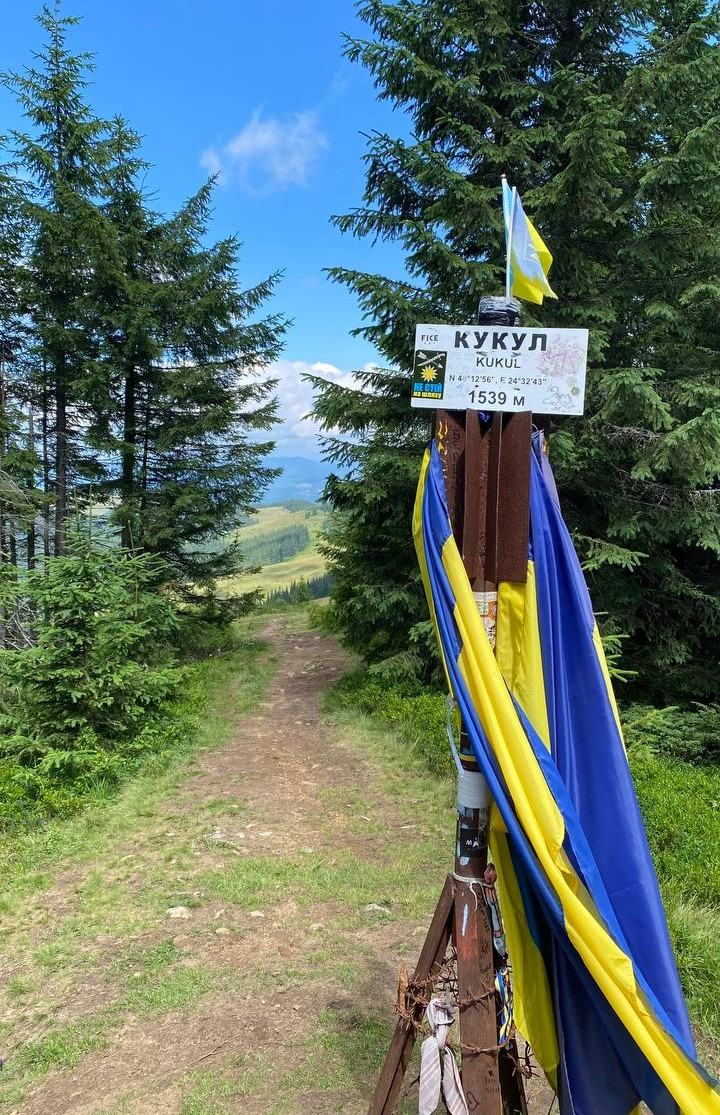
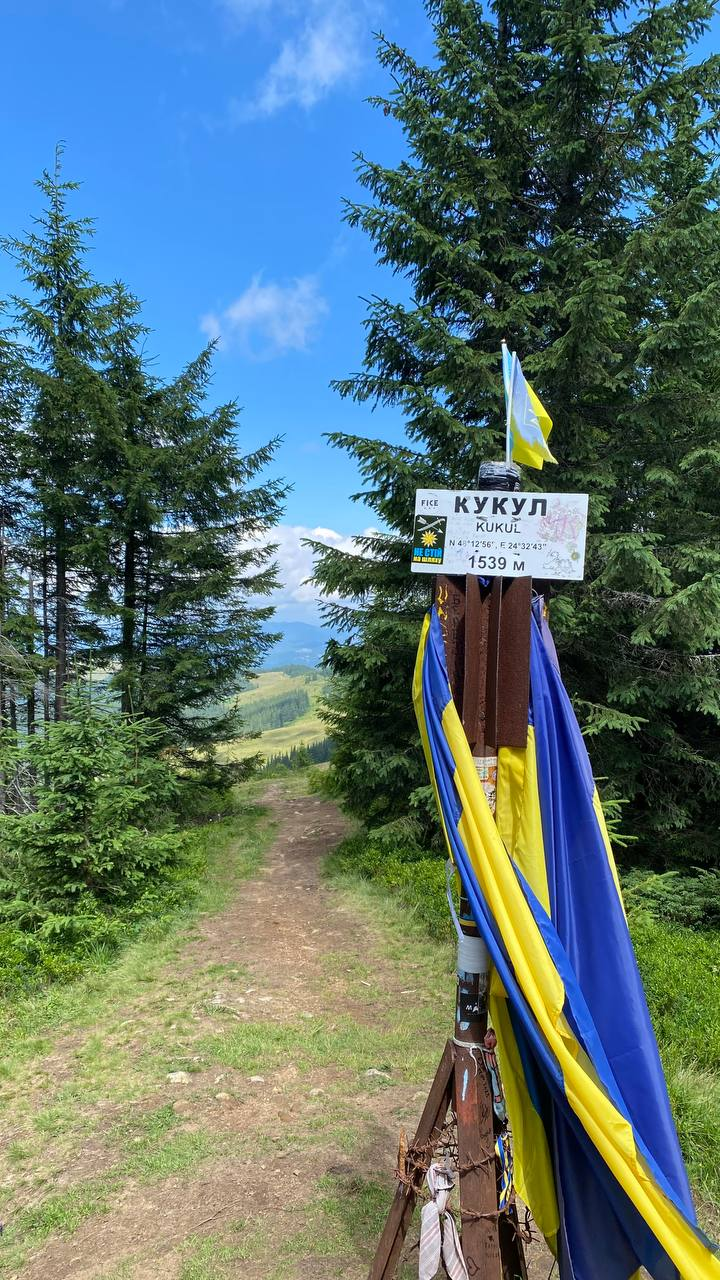
projets

diff --git a/index.html b/index.html
@@ -166,7 +166,7 @@
                 <div class="skill-bar">
                     <div class="skill-level prog-level">98%</div>
                 </div>
-                <div class="compets">Je maîtrise des langages de programmation tels que Python, ainsi que les bases de JavaScript et Java. Concernant les bases de données, je connais les bases du SQL. Je sais également concevoir des interfaces web avec HTML et CSS</div>
+                <div class="compets">Je maîtrise des langages de programmation tels que Python, ainsi que les bases de JavaScript, PHP et Java. Concernant les bases de données, je connais les bases du SQL. Je sais également concevoir des interfaces web avec HTML et CSS</div>
             </div><br>
             
             <div class="skill-item">
@@ -174,7 +174,7 @@
                 <div class="skill-bar">
                     <div class="skill-level reseaux-level">90%</div>
                 </div>
-                <div class="compets">Je sais configurer un point d'accès Wi-Fi, distribuer des addresses IP aux machines, activer le DHCP et mettre en place plusieurs VLAN</div>
+                <div class="compets">Je sais configurer un point d'accès Wi-Fi, distribuer des addresses IP aux machines, créer des différents VLANs, ainsi que mettre en place un serveur FTP, DHCP et DNS.</div>
             </div><br>
 
             <div class="skill-item">
@@ -190,7 +190,7 @@
                 <div class="skill-bar">
                     <div class="skill-level telecom-level">75%</div>
                 </div>
-                <div class="compets">Je sais analyser la propagation du signal dans la fibre optique, concevoir des circuits simples et étudier la réception de signaux par antenne TV</div>
+                <div class="compets">Je sais analyser la propagation du signal dans la fibre optique, concevoir des circuits simples, étudier la réception de signaux par antenne TV, ainsi que travailler sur l'échantillonage de la voix.</div>
             </div><br>
 
         </div>
@@ -408,15 +408,15 @@
                 </div>
 
                 <div class="projet-carte">
-                    <img src="images/shooter.jpg" alt="Shooter">
-                    <h3>Jeu shooter</h3>
-                    <a href="#modal2" class="bouton-projet">Voir le projet</a>
+                    <img src="images/cyberskills/connexion.jpg" alt="SAE23">
+                    <h3>Site interactif</h3>
+                    <a href="#modal3" class="bouton-projet">Voir le projet</a>
                 </div>
 
                 <div class="projet-carte">
-                    <img src="images/cyberskills/connexion.jpg" alt="SAE">
-                    <h3>Site interactif</h3>
-                    <a href="#modal3" class="bouton-projet">Voir le projet</a>
+                    <img src="images/cisco.png" alt="SAE24">
+                    <h3>Projet intégratif</h3>
+                    <a href="#modal2" class="bouton-projet">Voir le projet</a>
                 </div>
             </div>
         </div>
@@ -443,16 +443,12 @@
         <div id="modal2" class="modal-arriere">
             <div class="modal-content">
                 <a href="#projets" class="close-modal">&times;</a>
-                <h3><span class="exp-label">Titre :</span>Création du jeu shooter</h3>
-                <p><br><span class="exp-label">Contexte :</span>Ce projet a été réalisé dans le cadre de l'évaluation finale d'un module chez Hackit Studio</p>
-                <p><br><span class="exp-label">Objectif :</span>Créer une page Web sur laquelle on peut lancer le jeu de shooter</p>
-                <p><br><span class="exp-label">Travail réalisé :</span>J'ai réalisé ce projet en autonomie, en sollicitant parfois l'aide de mon professeur. 
-                    J'ai d'abord structuré la page en HTML, avant d'utiliser le CSS pour la mise en forme et le design. Enfin, j'ai intégré du JavaScript pour 
-                    ajouter de l'interactivité : on peut désormais éclater les ballons qui tombent du haut de l'écran avec un rayon lumineux en appuyant sur la
-                    barre d'espace.</p>
-                <br><video src="projets/shooter.mp4" controls width="450" autoplay muted loop>
-                </video>
-                <p><br><span class="exp-label">Résultat :</span>Ce projet m'a permis de mettre en pratique le module acquis en cours et de m'entraîner à travailler sur des projets</p>
+                <h3><span class="exp-label">Titre :</span>Projet Intégratif - Architecture, Sécurisation Réseau et Serveurs</h3>
+                <p><span class="exp-label">Contexte :</span>Ce projet a été réalisé en équipe de 3 dans le cadre de la SAE 2.04.</p>
+                <p><span class="exp-label">Objectif :</span>Concevoir, sécuriser et déployer l'intégralité de l'infrastructure informatique et de téléphonie IP de l'entreprise client suite à son installation dans un nouveau local.</p>
+                <p><br><span class="exp-label">Travail réalisé :</span>Nous avons d'abord segmenté le réseau local en configurant plusieurs VLANs sur un switch pour isoler les flux. Nous avons intégré un pare-feu pour gérer le routage inter-VLAN et le NAT. Côté sécurité locale, nous avons activé le DHCP Snooping et le Port Security contre les attaques. Enfin, nous avons déployé quatre serveurs clés : un annuaire centralisé Windows Active Directory, un serveur Linux, un serveur de fichiers sécurisé SFTP et un serveur IPBX pour la téléphonie. Pour ma part, je me suis occupée de la création du serveur Web ainsi que de l'interface utilisable par tous les employés de l'entreprise cliente. Voici la structure complète du réseau mis en place:</p>
+                <img src="images/cisco.png" alt="Projet_schema">
+                <p><br><span class="exp-label">Résultat :</span>Ce projet nous a permis de mettre en place une infrastructure complète et sécurisée pour les données médicales, tout en développant des compétences en administration système, sécurité réseau, gestion de projet et intégration web.</p>
             </div>
         </div>
 
@@ -576,10 +572,27 @@
                 <a href="#autre" class="close-modal">&times;</a>
                 <h2 class="titre-loisir">Randonnées</h2>
                 <p><br>Passionnée de grands espaces et de défis physiques depuis l'année 2025, je pratique la marche sur des parcours exigeants, à l'image du pèlerinage de Chartres (110 km en 3 jours), de sommets à Annecy, au Puy de Dôme, de treks dans les Carpates avec le mont Kukul(Ukraine), ainsi que de randonnées hivernales dans les Alpes. Découverte grâce au scoutisme, cette activité est devenue un moyen de déconnexion hors du cadre des études. Elle développe ma persévérance, mon goût pour l'effort et le dépassement de soi, ainsi que mon autonomie, avec pour prochain objectif la réalisation d'une partie du GR10 dans les Pyrénées.</p><br>
-                <img src="images/annecy.jpg" alt="Marche">
-                <img src="images/alpes.jpg" alt="Marche">
-                <img src="images/kukul.jpg" alt="Marche">
-                <img src="images/chartres.jpg" alt="Marche">
+                <div class="galerie-rando">
+                    <figure class="item-rando">
+                        <img src="images/annecy.jpg" alt="Randonnée à Annecy">
+                        <figcaption>Montagnes d'Annecy</figcaption>
+                    </figure>
+
+                    <figure class="item-rando">
+                        <img src="images/alpes.jpg" alt="Randonnée dans les Alpes">
+                        <figcaption>Randonnée dans les Alpes</figcaption>
+                    </figure>
+
+                    <figure class="item-rando">
+                        <img src="images/kukul.jpg" alt="Mont Kukul">
+                        <figcaption>Sommet de Kukul</figcaption>
+                    </figure>
+
+                    <figure class="item-rando">
+                        <img src="images/chartres.jpg" alt="Pèlerinage de Chartres">
+                        <figcaption>Pèlerinage de Chartres</figcaption>
+                    </figure>
+                </div>
             </div>
         </div>
 

diff --git a/style.css b/style.css
@@ -943,6 +943,40 @@ input[name="music-page"] {
     justify-content: flex-start; /* Le bouton "Précédent" reste à gauche sur la page 4*/
 }
 
+/*les photos des marches*/
+.galerie-rando {
+    display: flex;
+    flex-wrap: nowrap; 
+    gap: 15px; 
+    justify-content: space-between;
+    margin-top: 20px;
+    width: 100%;
+}
+
+.item-rando {
+    margin: 0;
+    display: flex;
+    flex-direction: column;
+    align-items: center;
+    width: calc(25% - 12px); 
+    min-width: 120px; 
+}
+
+.item-rando img {
+    width: 100%;  
+    height: auto;    
+    display: block;    
+    border-radius: 8px;
+}
+
+.item-rando figcaption {
+    margin-top: 8px;
+    font-size: 12px;
+    color: #555;
+    font-weight: 500;
+    text-align: center;
+}
+
 
 
 /*9.  CV*/